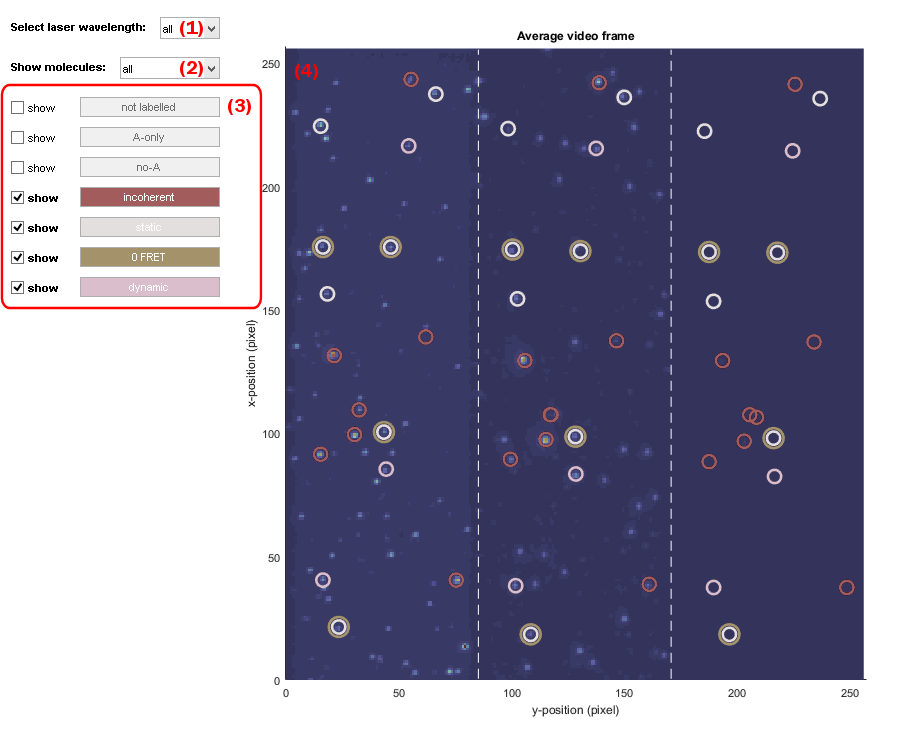
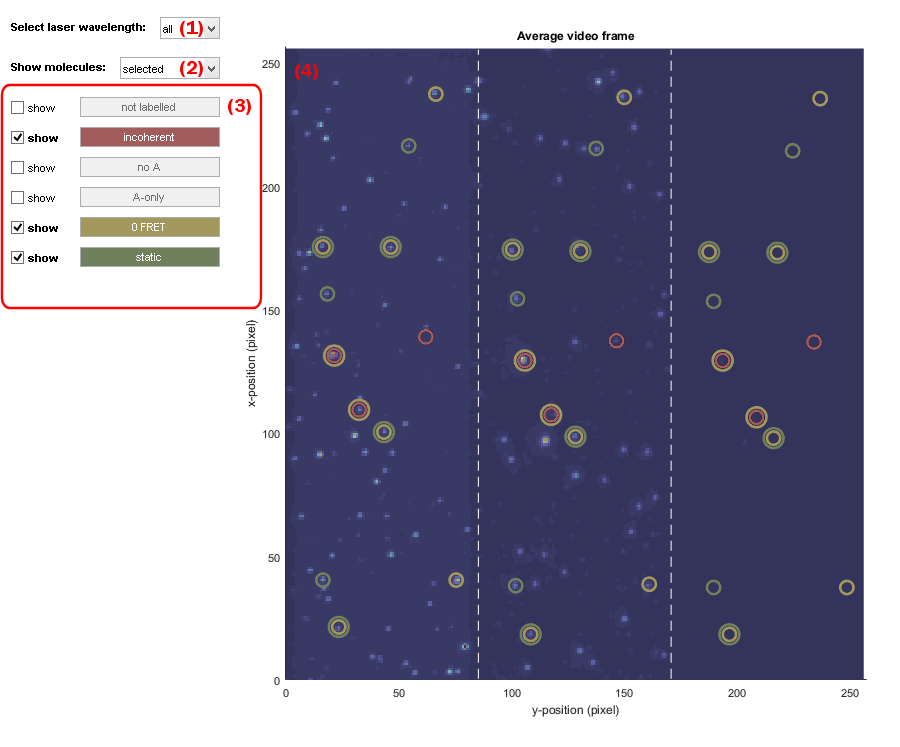
Complete Trace manager's Overview

diff --git a/docs/trace-processing/functionalities/tm-video-view.md b/docs/trace-processing/functionalities/tm-video-view.md
@@ -6,7 +6,7 @@ parent: /trace-processing/functionalities.html
 grand_parent: /trace-processing.html
 main_nav: /trace-processing/functionalities/tm-overview.html
 nav_order: 3
-subnav_order: 4
+subnav_order: 3
 nav_exclude: true
 toc_exclude: true
 ---
@@ -19,34 +19,74 @@ Trace manager is accessed by pressing
 ![TM](../../assets/images/gui/TP-but-tm.png "TM") in the 
 [Sample management](../panels/panel-sample-management.html#trace-manager) panel of module Trace processing.
 
+---
+
 {% include tm_head.html %}
 
-<a href="../../assets/images/gui/TP-panel-sample-tm-videoview.png"><img src="../../assets/images/gui/TP-panel-sample-tm-videoview.png"/></a>
+Video view is used to visualize single molecules statuses in the video.
 
-## Window components
+## Interface components
 {: .no_toc .text-delta }
 
 1. TOC
 {:toc}
 
+<a class="plain" href="../../assets/images/gui/TP-panel-sample-tm-videoview.png" ><img src="../../assets/images/gui/TP-panel-sample-tm-videoview.png"/></a>
+
+
 ---
 
-
 ## Laser illumination
+
+Use this menu to define the video frames taken into account for building the average image shown in the
+[Visualization area](#visualization-area).
+
+For experiments using alternated laser excitation (ALEX), video frames can be averaged over each laser illuminations.
+Laser-specific average images allow to visualize the molecules labelled with the emitters that are specifically excited at this wavelength.
+For instance, molecules labelled with Cy5 will be better visualized on the video frames recorded upon illumination at 638nm.
+
+Select in the list the specific laser illumination wavelength to average video frames over, or choose `all` to average over all video frames.
 
 
 ---
 
 ## Molecule selection
 
+Use this menu to define which molecule selection is shown in the
+[Visualization area](#visualization-area).
+
+To show:
+- only selected molecules, choose the `selected` option
+- only excluded molecules, choose the `unselected` option
+- selected and excluded molecules, choose the `all` option
+
 
 ---
 
 ## Tag list
 
-<a href="../../assets/images/gui/TP-panel-sample-tm-videoview-taglist.png"><img src="../../assets/images/gui/TP-panel-sample-tm-videoview-taglist.png" style="max-width:216px"></a>
+Adjust these options to show/hide specific molecule subgroups.
+
+<a class="plain" href="../../assets/images/gui/TP-panel-sample-tm-videoview-taglist.png"><img src="../../assets/images/gui/TP-panel-sample-tm-videoview-taglist.png" style="max-width:216px;"></a>
+
+The affiliation of molecules to subgroups is defined by the molecule tags, with each subgroup tag being defined by a specific name and color.
+When molecules have no tag, they are automatically affiliated to the `not labelled` subgroup colored in white.
+
+To show or hide molecule subgroups whose tag name is written and colored in **(b)**, respectively activate or deactivate the corresponding options in **(a)**.
 
 
 ---
 
 ## Visualization area
+
+Use this interface to visualize molecule subgroups in the video.
+
+If the project is associated with a single molecule video and single molecule coordinates, single molecules are shown on the average video frame upon the chosen
+[Laser illumination](#laser-illumination) with colored circles centered on the corresponding molecule positions.
+Circles are colored according to the tag-specific color and can be multiple if the same molecule is affiliated to several subgroups.
+
+If the project is not associated with a single molecule video nor/or with a set of single molecule coordinates, Video view is not available and the visualization area display a warning.
+
+<a class="plain" href="../../assets/images/gui/TP-panel-sample-tm-videoview-visu1.png"><img src="../../assets/images/gui/TP-panel-sample-tm-videoview-visu1.png" style="max-width:45%;"></a>
+<a class="plain" href="../../assets/images/gui/TP-panel-sample-tm-videoview-visu2.png"><img src="../../assets/images/gui/TP-panel-sample-tm-videoview-visu2.png" style="max-width:45%;"></a>
+
